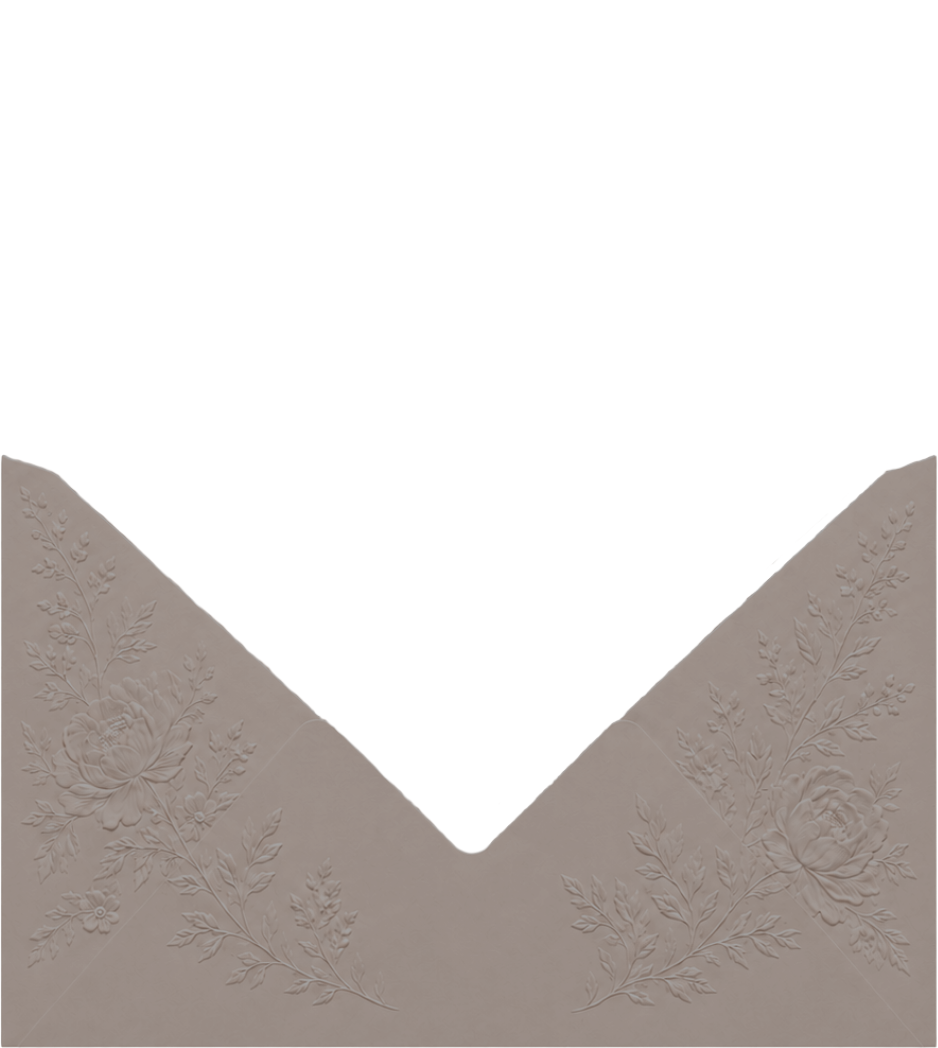
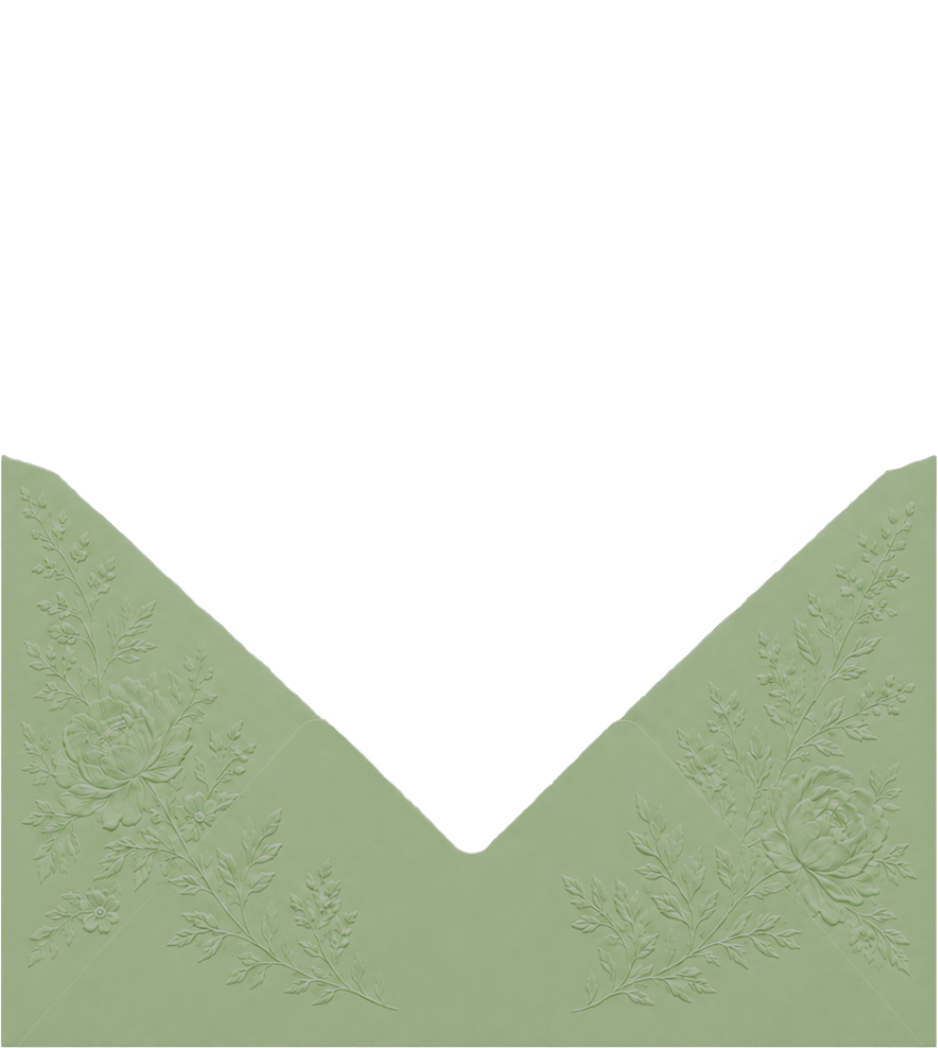
Set the envelope to #9caf88 — the palette's primary sage
Hue 89deg, saturation x1.037, value x0.723 of the blush original. Lands on
#9cae88, a unit off from 8-bit HSV rounding. Bump the URLs to ?v=8.

This is --sage-400 itself, the colour the whole theme is built on, so the
envelope now matches the sage used in the letter's type and the drifting
leaves rather than sitting near it.

The hint needed no attention this time: ink measures 4.8:1 against it, and
the rule stopped tracking the envelope's tone last commit.

diff --git a/css/save-the-date.css b/css/save-the-date.css
@@ -204,16 +204,16 @@ body.is-ready .petals { opacity: 1; }
    move it up to .stage, which owns the perspective. */
 .env__back  {
   z-index: 1;
-  background-image: image-set(url(../assets/env-back.webp?v=7)  type("image/webp"), url(../assets/env-back.png?v=7)  type("image/png"));
+  background-image: image-set(url(../assets/env-back.webp?v=8)  type("image/webp"), url(../assets/env-back.png?v=8)  type("image/png"));
   filter: drop-shadow(0 7px 14px rgba(84, 64, 58, 0.26));
 }
-.env__front { z-index: 3; background-image: image-set(url(../assets/env-front.webp?v=7) type("image/webp"), url(../assets/env-front.png?v=7) type("image/png")); }
+.env__front { z-index: 3; background-image: image-set(url(../assets/env-front.webp?v=8) type("image/webp"), url(../assets/env-front.png?v=8) type("image/png")); }
 
 /* The flap is authored in the OPEN (up) position; flipped down about its hinge
    (y≈43.4% of the piece) it covers the pocket = closed. One image, both faces. */
 .env__flap {
   z-index: 4;
-  background-image: image-set(url(../assets/env-flap.webp?v=7) type("image/webp"), url(../assets/env-flap.png?v=7) type("image/png"));
+  background-image: image-set(url(../assets/env-flap.webp?v=8) type("image/webp"), url(../assets/env-flap.png?v=8) type("image/png"));
   transform-origin: 50% 43.4%;
   /* the translateY is identity here, but it keeps the function list the same in
      all three states (closed / open / sliding) so each transition interpolates

diff --git a/save-the-date.html b/save-the-date.html
@@ -41,7 +41,7 @@
   <!-- Bespoke save-the-date theme (mirrors the locked sage + blush palette).
        The ?v= query is a cache buster — bump it whenever the CSS or JS changes so
        browsers pick the new file up without a hard refresh. -->
-  <link rel="stylesheet" href="css/save-the-date.css?v=38" />
+  <link rel="stylesheet" href="css/save-the-date.css?v=39" />
 
   <!-- No-JS fallback: hide the envelope pieces so the sandwiched letter shows. -->
   <noscript>

diff --git a/README.md b/README.md
@@ -34,7 +34,7 @@ wedding stationery and to be hosted for free on **GitHub Pages**.
 
 - **`index.html`** — the full site: story, itinerary, locations, RSVP, FAQ.
 - **`save-the-date.html`** — a cinematic *save-the-date* on **one non-scrolling
-  screen**. Guests land on the couple's **own taupe floral envelope, sized full
+  screen**. Guests land on the couple's **own sage floral envelope, sized full
   bleed**: it's deliberately oversized so its body covers the whole viewport — edge
   to edge on a desktop, and on a phone a **deep zoom that leaves only the middle of
   the envelope on screen**. The envelope is built from three layered pieces
@@ -177,7 +177,7 @@ Until then, treat any "submitted" RSVP as **not recorded**.
   cropped to a shared coordinate space and compressed for the web. No third-party
   license applies.
 
-  They were supplied in **blush** and have been **recoloured to a warm taupe** (`#9c8f88`).
+  They were supplied in **blush** and have been **recoloured to the palette's primary sage** (`#9caf88`, i.e. `--sage-400`).
   The embossing is carried entirely in luminance, so the recolour pins the hue and
   rescales saturation and value, leaving every petal and fern untouched. The blush
   originals are in git history if they're ever wanted back. The envelope URLs carry
